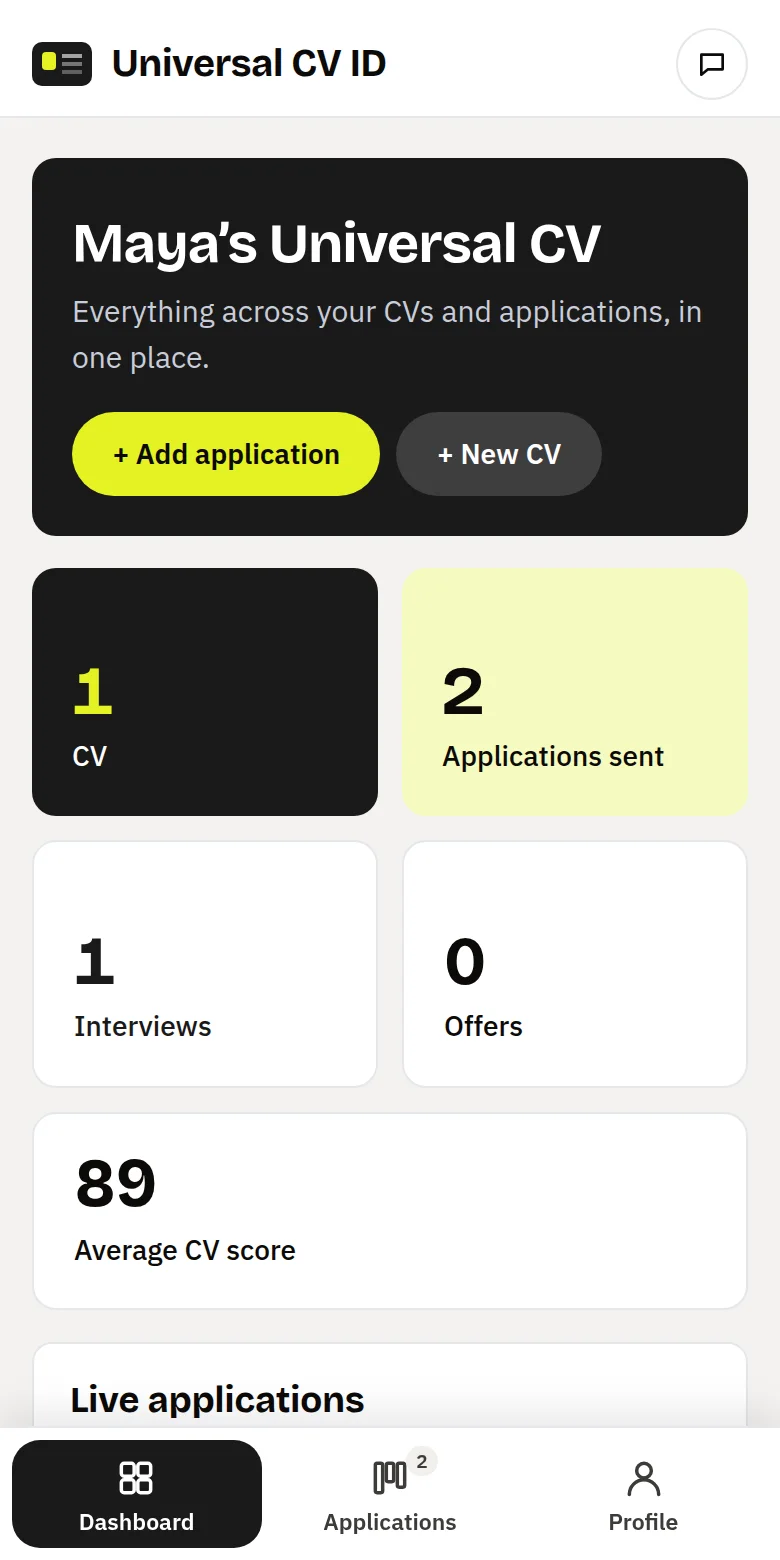
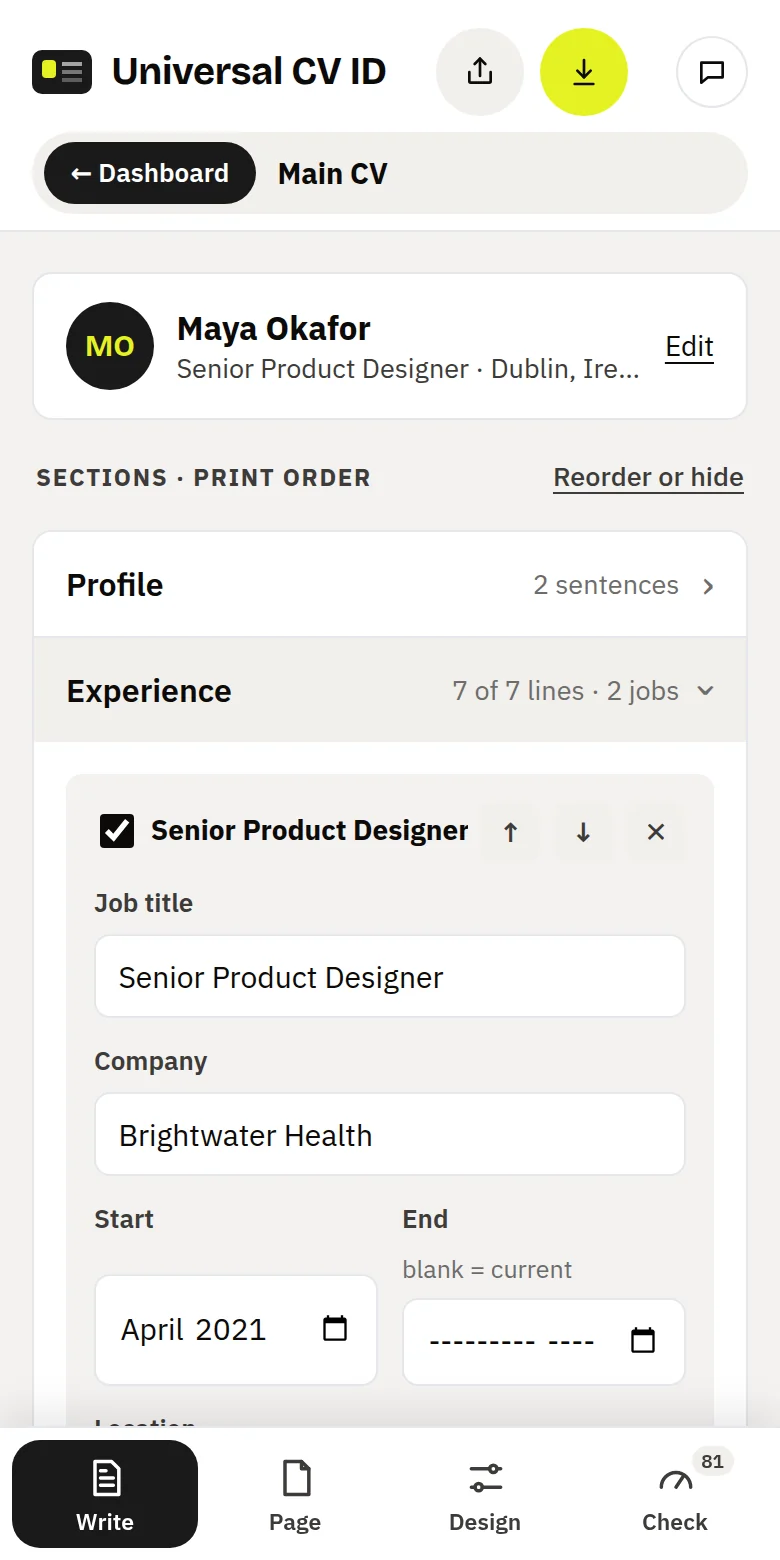
cvid-v32-screenshots

diff --git a/cv-builder.html b/cv-builder.html
@@ -43,9 +43,9 @@
  ]
 }
 </script>
-<script src="assets/boot.js?v=31"></script>
-<link rel="stylesheet" href="assets/fonts/fonts.css?v=31">
-<link rel="stylesheet" href="assets/styles.css?v=31">
+<script src="assets/boot.js?v=32"></script>
+<link rel="stylesheet" href="assets/fonts/fonts.css?v=32">
+<link rel="stylesheet" href="assets/styles.css?v=32">
 </head>
 <body>
   <nav class="r-nav" aria-label="Main">
@@ -72,7 +72,7 @@
         <li>Your CV stays in your browser</li>
       </ul>
     </div>
-    <figure class="r-hero-shot"><picture><source media="(max-width: 560px)" srcset="assets/img/builder-m.webp" width="780" height="1560"><img src="assets/img/hero-builder.webp" width="2040" height="1350" alt="The builder: edit your CV on the left and see the A4 page update on the right."></picture></figure>
+    <figure class="r-hero-shot"><picture><source media="(max-width: 560px)" srcset="assets/img/builder-m.webp?v=32" width="780" height="1560"><img src="assets/img/hero-builder.webp?v=32" width="2040" height="1350" alt="The builder in Write mode: your sections in print order on the left and the A4 page on the right, with Write, Design and Check at the top."></picture></figure>
   </header>
   <section class="section r-section" id="versions">
         <h2>One CV for every job, without the mess.</h2>
@@ -112,7 +112,7 @@
     <h2 class="r-h2">Everything you need to apply.</h2>
     <div class="r-row">
       <div class="r-row-copy"><h3>Tailor it to every job</h3><p>Paste the job advert and see which keywords your CV covers and which are missing. Save the result as a new version; your main CV stays as it is.</p></div>
-      <figure class="r-shot"><img src="assets/img/f-match.webp" width="657" height="1125" alt="Job match: a pasted job advert, a keyword match score of 62% and the missing keywords to add." loading="lazy"></figure>
+      <figure class="r-shot"><img src="assets/img/f-match.webp?v=32" width="880" height="1500" alt="Job match in Check mode: a pasted job advert, a keyword match score and the missing keywords to add." loading="lazy"></figure>
     </div>
     <div class="r-row wide">
       <div class="r-row-copy"><h3>Track every application</h3><p>Log each job from saved to offer, with the CV version you sent, the date you applied and when to follow up.</p></div>
@@ -127,6 +127,8 @@
         <li><b>Six templates</b><span>Including a plain layout that screening software reads easily.</span></li>
         <li><b>Real A4 PDF and Word</b><span>The download matches the preview, with selectable text.</span></li>
         <li><b>Share a link or QR code</b><span>Send your CV without an attachment. No account needed to view it.</span></li>
+        <li><b>Group your skills</b><span>Split them into groups such as Technical, Interpersonal and Tools, printed as labelled lines.</span></li>
+        <li><b>Fit to one page</b><span>Runs a few lines over? One click tightens the spacing, and Undo puts it back.</span></li>
       </ul>
     </div>
   </section>

diff --git a/app.html b/app.html
@@ -8,12 +8,12 @@
 <meta name="description" content="Free online CV builder. Build, tailor and download your CV as PDF or Word, and track your job applications. No sign-up.">
 <link rel="canonical" href="https://cvid.app/app.html">
 <link rel="icon" href="assets/favicon.svg" type="image/svg+xml">
-<script src="assets/boot.js?v=31"></script>
-<link rel="stylesheet" href="assets/fonts/fonts.css?v=31">
-<link rel="stylesheet" href="assets/styles.css?v=31">
-<script src="assets/vendor/lz-string.min.js?v=31"></script>
-<script src="assets/vendor/qrcode.min.js?v=31"></script>
-<script src="assets/vendor/jspdf.umd.min.js?v=31"></script>
+<script src="assets/boot.js?v=32"></script>
+<link rel="stylesheet" href="assets/fonts/fonts.css?v=32">
+<link rel="stylesheet" href="assets/styles.css?v=32">
+<script src="assets/vendor/lz-string.min.js?v=32"></script>
+<script src="assets/vendor/qrcode.min.js?v=32"></script>
+<script src="assets/vendor/jspdf.umd.min.js?v=32"></script>
 </head>
 <body>
   <header class="app-bar">
@@ -62,8 +62,8 @@
 
   <div class="toast-wrap" id="toasts" aria-live="polite"></div>
 
-  <script src="assets/cv.js?v=31"></script>
-  <script src="assets/app.js?v=31"></script>
+  <script src="assets/cv.js?v=32"></script>
+  <script src="assets/app.js?v=32"></script>
 <!-- Cloudflare Web Analytics: anonymous visit counts, no cookies. Not loaded on share pages (p.html). --><script defer src="https://static.cloudflareinsights.com/beacon.min.js" data-cf-beacon='{"token": "1879d12eedaf4b739530700ef3285989"}'></script>
 </body>
 </html>

diff --git a/cv-checker.html b/cv-checker.html
@@ -34,9 +34,9 @@
  "description": "Free CV checker for Ireland and the UK. Marks what recruiters notice on your own CV, with a reason and a fix for each one. Your CV is read in your browser and never uploaded."
 }
 </script>
-<script src="assets/boot.js?v=31"></script>
-<link rel="stylesheet" href="assets/fonts/fonts.css?v=31">
-<link rel="stylesheet" href="assets/styles.css?v=31">
+<script src="assets/boot.js?v=32"></script>
+<link rel="stylesheet" href="assets/fonts/fonts.css?v=32">
+<link rel="stylesheet" href="assets/styles.css?v=32">
 </head>
 <body>
   <nav class="r-nav" aria-label="Main">
@@ -127,7 +127,7 @@
     <a href="https://tally.so/r/1A11el" target="_blank" rel="noopener">Give feedback</a>
     <a href="https://github.com/aarunanton/Universal-CVID" target="_blank" rel="noopener">GitHub</a>
   </footer>
-<script src="assets/check.js?v=31" defer></script>
+<script src="assets/check.js?v=32" defer></script>
 <!-- Cloudflare Web Analytics: anonymous visit counts, no cookies. Not loaded on share pages (p.html). --><script defer src="https://static.cloudflareinsights.com/beacon.min.js" data-cf-beacon='{"token": "1879d12eedaf4b739530700ef3285989"}'></script>
 </body>
 </html>

diff --git a/blog/not-getting-interviews.html b/blog/not-getting-interviews.html
@@ -18,9 +18,9 @@
 <script type="application/ld+json">
 {"@context":"https://schema.org","@type":"Article","headline":"Not getting interviews? 7 things wrong with most CVs","description":"The CV problems recruiters and CV reviewers point out most often, with a fix for each one.","datePublished":"2026-10-16","dateModified":"2026-10-16","author":{"@type":"Organization","name":"Universal CV ID","url":"https://cvid.app/"},"publisher":{"@type":"Organization","name":"Universal CV ID","url":"https://cvid.app/"},"mainEntityOfPage":"https://cvid.app/blog/not-getting-interviews.html","inLanguage":"en-IE"}
 </script>
-<script src="../assets/boot.js?v=31"></script>
-<link rel="stylesheet" href="../assets/fonts/fonts.css?v=31">
-<link rel="stylesheet" href="../assets/styles.css?v=31">
+<script src="../assets/boot.js?v=32"></script>
+<link rel="stylesheet" href="../assets/fonts/fonts.css?v=32">
+<link rel="stylesheet" href="../assets/styles.css?v=32">
 </head>
 <body>
   <nav class="r-nav" aria-label="Main">

diff --git a/blog/cv-words-to-avoid.html b/blog/cv-words-to-avoid.html
@@ -18,9 +18,9 @@
 <script type="application/ld+json">
 {"@context":"https://schema.org","@type":"Article","headline":"15 CV words to avoid, and what to write instead","description":"Overused CV buzzwords, why they don't work, and what to write instead.","datePublished":"2026-10-16","dateModified":"2026-10-16","author":{"@type":"Organization","name":"Universal CV ID","url":"https://cvid.app/"},"publisher":{"@type":"Organization","name":"Universal CV ID","url":"https://cvid.app/"},"mainEntityOfPage":"https://cvid.app/blog/cv-words-to-avoid.html","inLanguage":"en-IE"}
 </script>
-<script src="../assets/boot.js?v=31"></script>
-<link rel="stylesheet" href="../assets/fonts/fonts.css?v=31">
-<link rel="stylesheet" href="../assets/styles.css?v=31">
+<script src="../assets/boot.js?v=32"></script>
+<link rel="stylesheet" href="../assets/fonts/fonts.css?v=32">
+<link rel="stylesheet" href="../assets/styles.css?v=32">
 </head>
 <body>
   <nav class="r-nav" aria-label="Main">

diff --git a/p.html b/p.html
@@ -7,10 +7,10 @@
 <meta name="referrer" content="no-referrer">
 <title>CV · Universal CV ID</title>
 <link rel="icon" href="assets/favicon.svg" type="image/svg+xml">
-<script src="assets/boot.js?v=31"></script>
-<link rel="stylesheet" href="assets/fonts/fonts.css?v=31">
-<link rel="stylesheet" href="assets/styles.css?v=31">
-<script src="assets/vendor/lz-string.min.js?v=31"></script>
+<script src="assets/boot.js?v=32"></script>
+<link rel="stylesheet" href="assets/fonts/fonts.css?v=32">
+<link rel="stylesheet" href="assets/styles.css?v=32">
+<script src="assets/vendor/lz-string.min.js?v=32"></script>
 </head>
 <body>
   <nav class="r-nav" aria-label="Main">
@@ -23,7 +23,7 @@
   </div>
   <div class="toast-wrap" id="toasts" aria-live="polite"></div>
 
-  <script src="assets/cv.js?v=31"></script>
-  <script src="assets/p.js?v=31"></script>
+  <script src="assets/cv.js?v=32"></script>
+  <script src="assets/p.js?v=32"></script>
 </body>
 </html>

diff --git a/blog/cv-ireland.html b/blog/cv-ireland.html
@@ -25,9 +25,9 @@
 {"@type":"Question","name":"Should I put my PPS number or date of birth on my CV?","acceptedAnswer":{"@type":"Answer","text":"No. Leave out your PPS number, date of birth and marital status. Employers ask for what they need later."}}
 ]}
 </script>
-<script src="../assets/boot.js?v=31"></script>
-<link rel="stylesheet" href="../assets/fonts/fonts.css?v=31">
-<link rel="stylesheet" href="../assets/styles.css?v=31">
+<script src="../assets/boot.js?v=32"></script>
+<link rel="stylesheet" href="../assets/fonts/fonts.css?v=32">
+<link rel="stylesheet" href="../assets/styles.css?v=32">
 </head>
 <body>
   <nav class="r-nav" aria-label="Main">

diff --git a/assets/styles.css b/assets/styles.css
@@ -1775,3 +1775,9 @@ h2 .count { font: 600 13px/1 var(--font); color: var(--ink-3); margin-left: .35r
   body:not(.mode-dash):not(.is-start) .app-bar .tabs { display: none; }
   body:not(.mode-dash):not(.is-start) .bar-actions { margin-left: auto; }
 }
+@media (min-width: 1001px) and (max-width: 1240px) {
+  body:not(.mode-dash):not(.is-start) .app-bar-inner { flex-wrap: nowrap; }
+  body:not(.mode-dash):not(.is-start) .brand { font-size: 0; gap: 0; }
+  body:not(.mode-dash):not(.is-start) .ver-chip .sw { white-space: nowrap; }
+}
+@media (max-width: 760px) { body:not(.mode-dash):not(.is-start) .bar-actions { margin-left: auto; } }

diff --git a/about.html b/about.html
@@ -17,9 +17,9 @@
 <meta name="twitter:card" content="summary">
 <meta name="twitter:title" content="About Universal CV ID">
 <meta name="twitter:description" content="What Universal CV ID is, how your data is handled, and what we&#x27;re building next.">
-<script src="assets/boot.js?v=31"></script>
-<link rel="stylesheet" href="assets/fonts/fonts.css?v=31">
-<link rel="stylesheet" href="assets/styles.css?v=31">
+<script src="assets/boot.js?v=32"></script>
+<link rel="stylesheet" href="assets/fonts/fonts.css?v=32">
+<link rel="stylesheet" href="assets/styles.css?v=32">
 </head>
 <body>
   <nav class="r-nav" aria-label="Main">

diff --git a/blog/candidate-profile.html b/blog/candidate-profile.html
@@ -9,9 +9,9 @@
 <meta name="theme-color" content="#F4F2F0">
 <link rel="icon" href="../assets/favicon.svg" type="image/svg+xml">
 <link rel="canonical" href="https://cvid.app/blog/candidate-profile.html">
-<script src="../assets/boot.js?v=31"></script>
-<link rel="stylesheet" href="../assets/fonts/fonts.css?v=31">
-<link rel="stylesheet" href="../assets/styles.css?v=31">
+<script src="../assets/boot.js?v=32"></script>
+<link rel="stylesheet" href="../assets/fonts/fonts.css?v=32">
+<link rel="stylesheet" href="../assets/styles.css?v=32">
 </head>
 <body>
   <nav class="r-nav" aria-label="Main">

diff --git a/blog/universal-cv-id.html b/blog/universal-cv-id.html
@@ -9,9 +9,9 @@
 <meta name="theme-color" content="#F4F2F0">
 <link rel="icon" href="../assets/favicon.svg" type="image/svg+xml">
 <link rel="canonical" href="https://cvid.app/blog/universal-cv-id.html">
-<script src="../assets/boot.js?v=31"></script>
-<link rel="stylesheet" href="../assets/fonts/fonts.css?v=31">
-<link rel="stylesheet" href="../assets/styles.css?v=31">
+<script src="../assets/boot.js?v=32"></script>
+<link rel="stylesheet" href="../assets/fonts/fonts.css?v=32">
+<link rel="stylesheet" href="../assets/styles.css?v=32">
 </head>
 <body>
   <nav class="r-nav" aria-label="Main">

diff --git a/blog/beta-builder.html b/blog/beta-builder.html
@@ -9,9 +9,9 @@
 <meta name="theme-color" content="#F4F2F0">
 <link rel="icon" href="../assets/favicon.svg" type="image/svg+xml">
 <link rel="canonical" href="https://cvid.app/blog/beta-builder.html">
-<script src="../assets/boot.js?v=31"></script>
-<link rel="stylesheet" href="../assets/fonts/fonts.css?v=31">
-<link rel="stylesheet" href="../assets/styles.css?v=31">
+<script src="../assets/boot.js?v=32"></script>
+<link rel="stylesheet" href="../assets/fonts/fonts.css?v=32">
+<link rel="stylesheet" href="../assets/styles.css?v=32">
 </head>
 <body>
   <nav class="r-nav" aria-label="Main">
